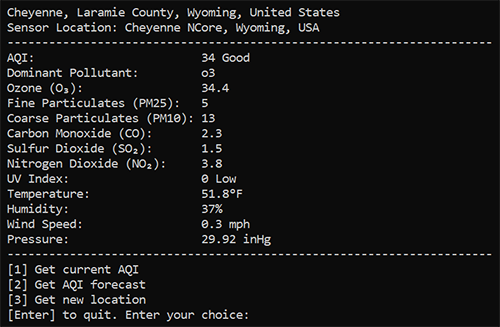
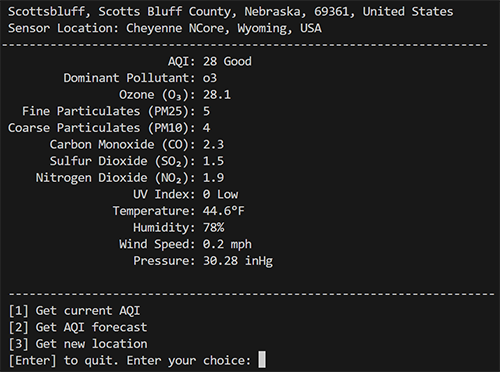
Update CLI

Changed region(s): [[0.0, 0.0, 0.99, 1.0]]

diff --git a/CLI/aqicn_class.py b/CLI/aqicn_class.py
@@ -178,19 +178,20 @@ class AQICNClass:
 # ------------------------ DISPLAY AQI ----------------------------------- #
     def display_aqi(self):
         """Print the data from dictionary created from the API data"""
-        print(f'\n {self.address}')
-        print(f' {"Sensor Location:":15} {self.sensor_location}')
-        print("", "-"*70)
-        print(f' {"AQI:":{self.WIDTH}} {self.aqi} {self.aqi_string}')
-        print(f' {"Dominant Pollutant:":{self.WIDTH}} {self.dom_pol}')
-        print(f' {"Ozone (O₃):":{self.WIDTH}} {self.o3}')
-        print(f' {"Fine Particulates (PM25):":{self.WIDTH}} {self.pm25}')
-        print(f' {"Coarse Particulates (PM10):":{self.WIDTH}} {self.pm10}')
-        print(f' {"Carbon Monoxide (CO):":{self.WIDTH}} {self.co}')
-        print(f' {"Sulfur Dioxide (SO₂):":{self.WIDTH}} {self.so2}')
-        print(f' {"Nitrogen Dioxide (NO₂):":{self.WIDTH}} {self.no2}')
-        print(f' {"UV Index:":{self.WIDTH}} {self.uvi} {self.uvi_string}')
-        print(f' {"Temperature:":{self.WIDTH}} {self.temperature}°F')
-        print(f' {"Humidity:":{self.WIDTH}} {self.humidity}%')
-        print(f' {"Wind Speed:":{self.WIDTH}} {self.wind_speed_mph} mph')
-        print(f' {"Pressure:":{self.WIDTH}} {self.pressure} inHg')
+        result = f"\n {self.address}\n"
+        result += f" {'Sensor Location:':<15} {self.sensor_location}\n"
+        result += f"{'-'*70}\n"
+        result += f" {'AQI:':>27} {self.aqi} {self.aqi_string}\n"
+        result += f" {'Dominant Pollutant:':>27} {self.dom_pol}\n"
+        result += f" {'Ozone (O₃):':>27} {self.o3}\n"
+        result += f" {'Fine Particulates (PM25):':>27} {self.pm25}\n"
+        result += f" {'Coarse Particulates (PM10):':>27} {self.pm10}\n"
+        result += f" {'Carbon Monoxide (CO):':>27} {self.co}\n"
+        result += f" {'Sulfur Dioxide (SO₂):':>27} {self.so2}\n"
+        result += f" {'Nitrogen Dioxide (NO₂):':>27} {self.no2}\n"
+        result += f" {'UV Index:':>27} {self.uvi} {self.uvi_string}\n"
+        result += f" {'Temperature:':>27} {self.temperature}°F\n"
+        result += f" {'Humidity:':>27} {self.humidity}%\n"
+        result += f" {'Wind Speed:':>27} {self.wind_speed_mph} mph\n"
+        result += f" {'Pressure:':>27} {self.pressure} inHg\n"
+        print(result)
